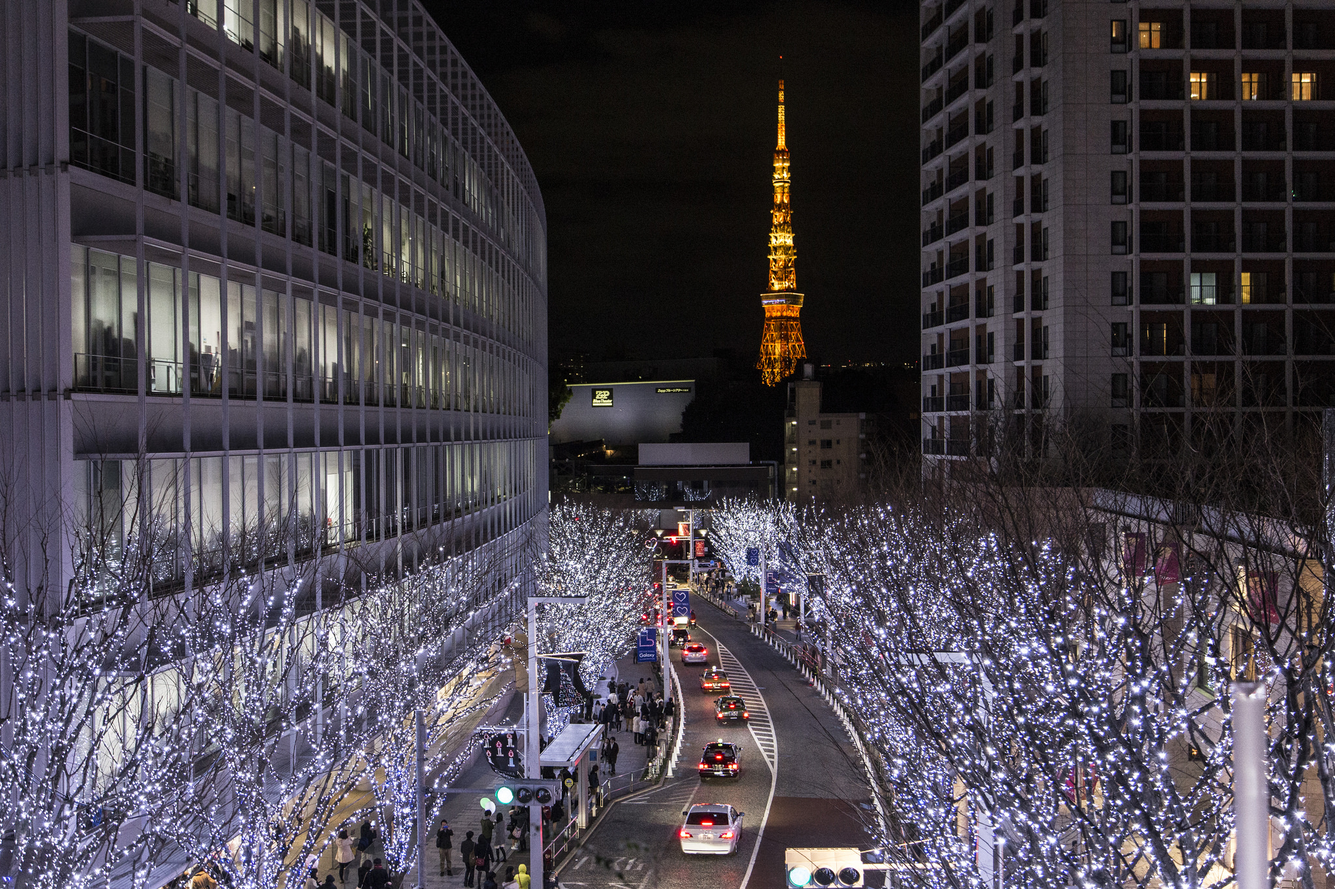
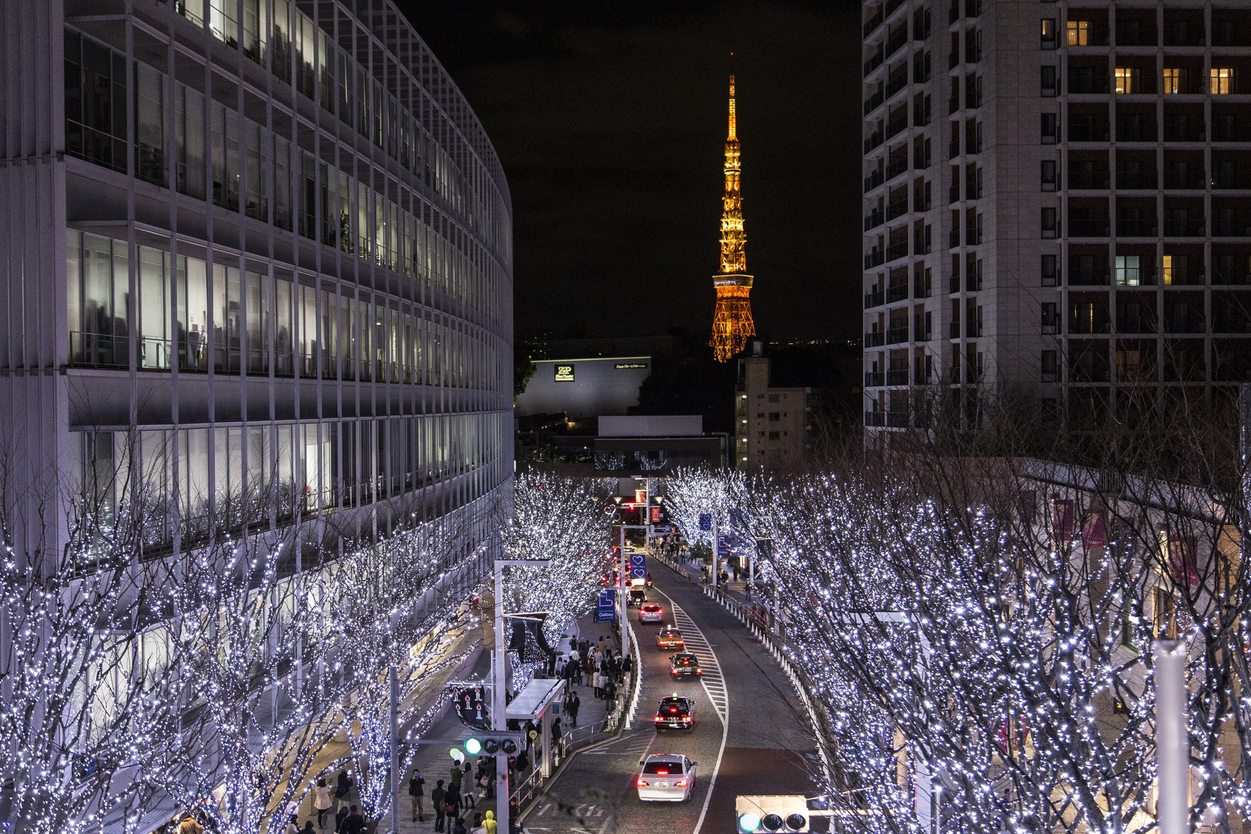
1. resize top image 2. add team sections

diff --git a/index.html b/index.html
@@ -76,9 +76,9 @@
                     <!-- <li>
                         <a class="page-scroll" href="#enroll">馬上報名</a>
                     </li> -->
-<!--                     <li>
-                        <a class="page-scroll" href="#team">Team</a>
-                    </li>                    -->
+                    <li>
+                        <a class="page-scroll" href="#team">團隊介紹</a>
+                    </li>                   
                 </ul>
             </div>
             <!-- /.navbar-collapse -->
@@ -278,71 +278,6 @@
             </div>
         </div>
     </section>
-
-    <!-- Team Section -->
-<!--     <section id="team" class="bg-light-gray">
-        <div class="container">
-            <div class="row">
-                <div class="col-lg-12 text-center">
-                    <h2 class="section-heading">Our Amazing Team</h2>
-                    <h3 class="section-subheading text-muted">Lorem ipsum dolor sit amet consectetur.</h3>
-                </div>
-            </div>
-            <div class="row">
-                <div class="col-sm-4">
-                    <div class="team-member">
-                        <img src="img/team/1.jpg" class="img-responsive img-circle" alt="">
-                        <h4>Kay Garland</h4>
-                        <p class="text-muted">Lead Designer</p>
-                        <ul class="list-inline social-buttons">
-                            <li><a href="#"><i class="fa fa-twitter"></i></a>
-                            </li>
-                            <li><a href="#"><i class="fa fa-facebook"></i></a>
-                            </li>
-                            <li><a href="#"><i class="fa fa-linkedin"></i></a>
-                            </li>
-                        </ul>
-                    </div>
-                </div>
-                <div class="col-sm-4">
-                    <div class="team-member">
-                        <img src="img/team/2.jpg" class="img-responsive img-circle" alt="">
-                        <h4>Larry Parker</h4>
-                        <p class="text-muted">Lead Marketer</p>
-                        <ul class="list-inline social-buttons">
-                            <li><a href="#"><i class="fa fa-twitter"></i></a>
-                            </li>
-                            <li><a href="#"><i class="fa fa-facebook"></i></a>
-                            </li>
-                            <li><a href="#"><i class="fa fa-linkedin"></i></a>
-                            </li>
-                        </ul>
-                    </div>
-                </div>
-                <div class="col-sm-4">
-                    <div class="team-member">
-                        <img src="img/team/3.jpg" class="img-responsive img-circle" alt="">
-                        <h4>Diana Pertersen</h4>
-                        <p class="text-muted">Lead Developer</p>
-                        <ul class="list-inline social-buttons">
-                            <li><a href="#"><i class="fa fa-twitter"></i></a>
-                            </li>
-                            <li><a href="#"><i class="fa fa-facebook"></i></a>
-                            </li>
-                            <li><a href="#"><i class="fa fa-linkedin"></i></a>
-                            </li>
-                        </ul>
-                    </div>
-                </div>
-            </div>
-            <div class="row">
-                <div class="col-lg-8 col-lg-offset-2 text-center">
-                    <p class="large text-muted">Lorem ipsum dolor sit amet, consectetur adipisicing elit. Aut eaque, laboriosam veritatis, quos non quis ad perspiciatis, totam corporis ea, alias ut unde.</p>
-                </div>
-            </div>
-        </div>
-    </section> -->
-
     <!-- Contact Section -->
     <section id="enroll">
         <div class="container">
@@ -361,9 +296,74 @@
             </div>
         </div>
     </section>
-    <section class="bg-light-gray">
-    </section>
 
+    <!-- Team Section -->
+    <section id="team" class="bg-light-gray">
+        <div class="container">
+            <div class="row">
+                <div class="col-lg-12 text-center">
+                    <h2 class="section-heading">活動團隊成員</h2>
+                    <h3 class="section-subheading text-muted">副標題</h3>
+                </div>
+            </div>
+            <div class="row">
+                <div class="col-sm-4">
+                    <div class="team-member">
+                        <img src="img/team/victor.jpg" class="img-responsive img-circle" alt="">
+                        <h4>Victor Chen</h4>
+                        <p class="text-muted">總召</p>
+                        <p class="text-muted"><a href="mailto:r03922096@ntu.edu.tw">dontcontact@ntu.edu.tw</a></p>
+                        <ul class="list-inline social-buttons">
+                            <li><a href="#"><i class="fa fa-twitter"></i></a>
+                            </li>
+                            <li><a href="#"><i class="fa fa-facebook"></i></a>
+                            </li>
+                            <li><a href="#"><i class="fa fa-linkedin"></i></a>
+                            </li>
+                        </ul>
+                    </div>
+                </div>
+                <div class="col-sm-4">
+                    <div class="team-member">
+                        <img src="img/team/ethan.jpg" class="img-responsive img-circle" alt="">
+                        <h4>Ethan Wang</h4>
+                        <p class="text-muted">籌劃</p>
+                        <p class="text-muted"><a href="mailto:r03922096@ntu.edu.tw">dontcontact@ntu.edu.tw</a></p>
+                        <ul class="list-inline social-buttons">
+                            <li><a href="#"><i class="fa fa-twitter"></i></a>
+                            </li>
+                            <li><a href="#"><i class="fa fa-facebook"></i></a>
+                            </li>
+                            <li><a href="#"><i class="fa fa-linkedin"></i></a>
+                            </li>
+                        </ul>
+                    </div>
+                </div>
+                <div class="col-sm-4">
+                    <div class="team-member">
+                        <img src="img/team/ary.jpg" class="img-responsive img-circle" alt="">
+                        <h4>Ary Huang</h4>
+                        <p class="text-muted">文宣</p>
+                        <p class="text-muted"><a href="mailto:r03922096@ntu.edu.tw">dontcontact@ntu.edu.tw</a></p>
+                        <ul class="list-inline social-buttons">
+                            <li><a href="#"><i class="fa fa-twitter"></i></a>
+                            </li>
+                            <li><a href="#"><i class="fa fa-facebook"></i></a>
+                            </li>
+                            <li><a href="#"><i class="fa fa-linkedin"></i></a>
+                            </li>
+                        </ul>
+                    </div>
+                </div>
+            </div>
+            <div class="row">
+                <div class="col-lg-8 col-lg-offset-2 text-center">
+                    <p class="large text-muted">放一些文字</p>
+                </div>
+            </div>
+        </div>
+    </section>
+    
     <!-- Clients Aside -->
     <section>
         <div class="container">
